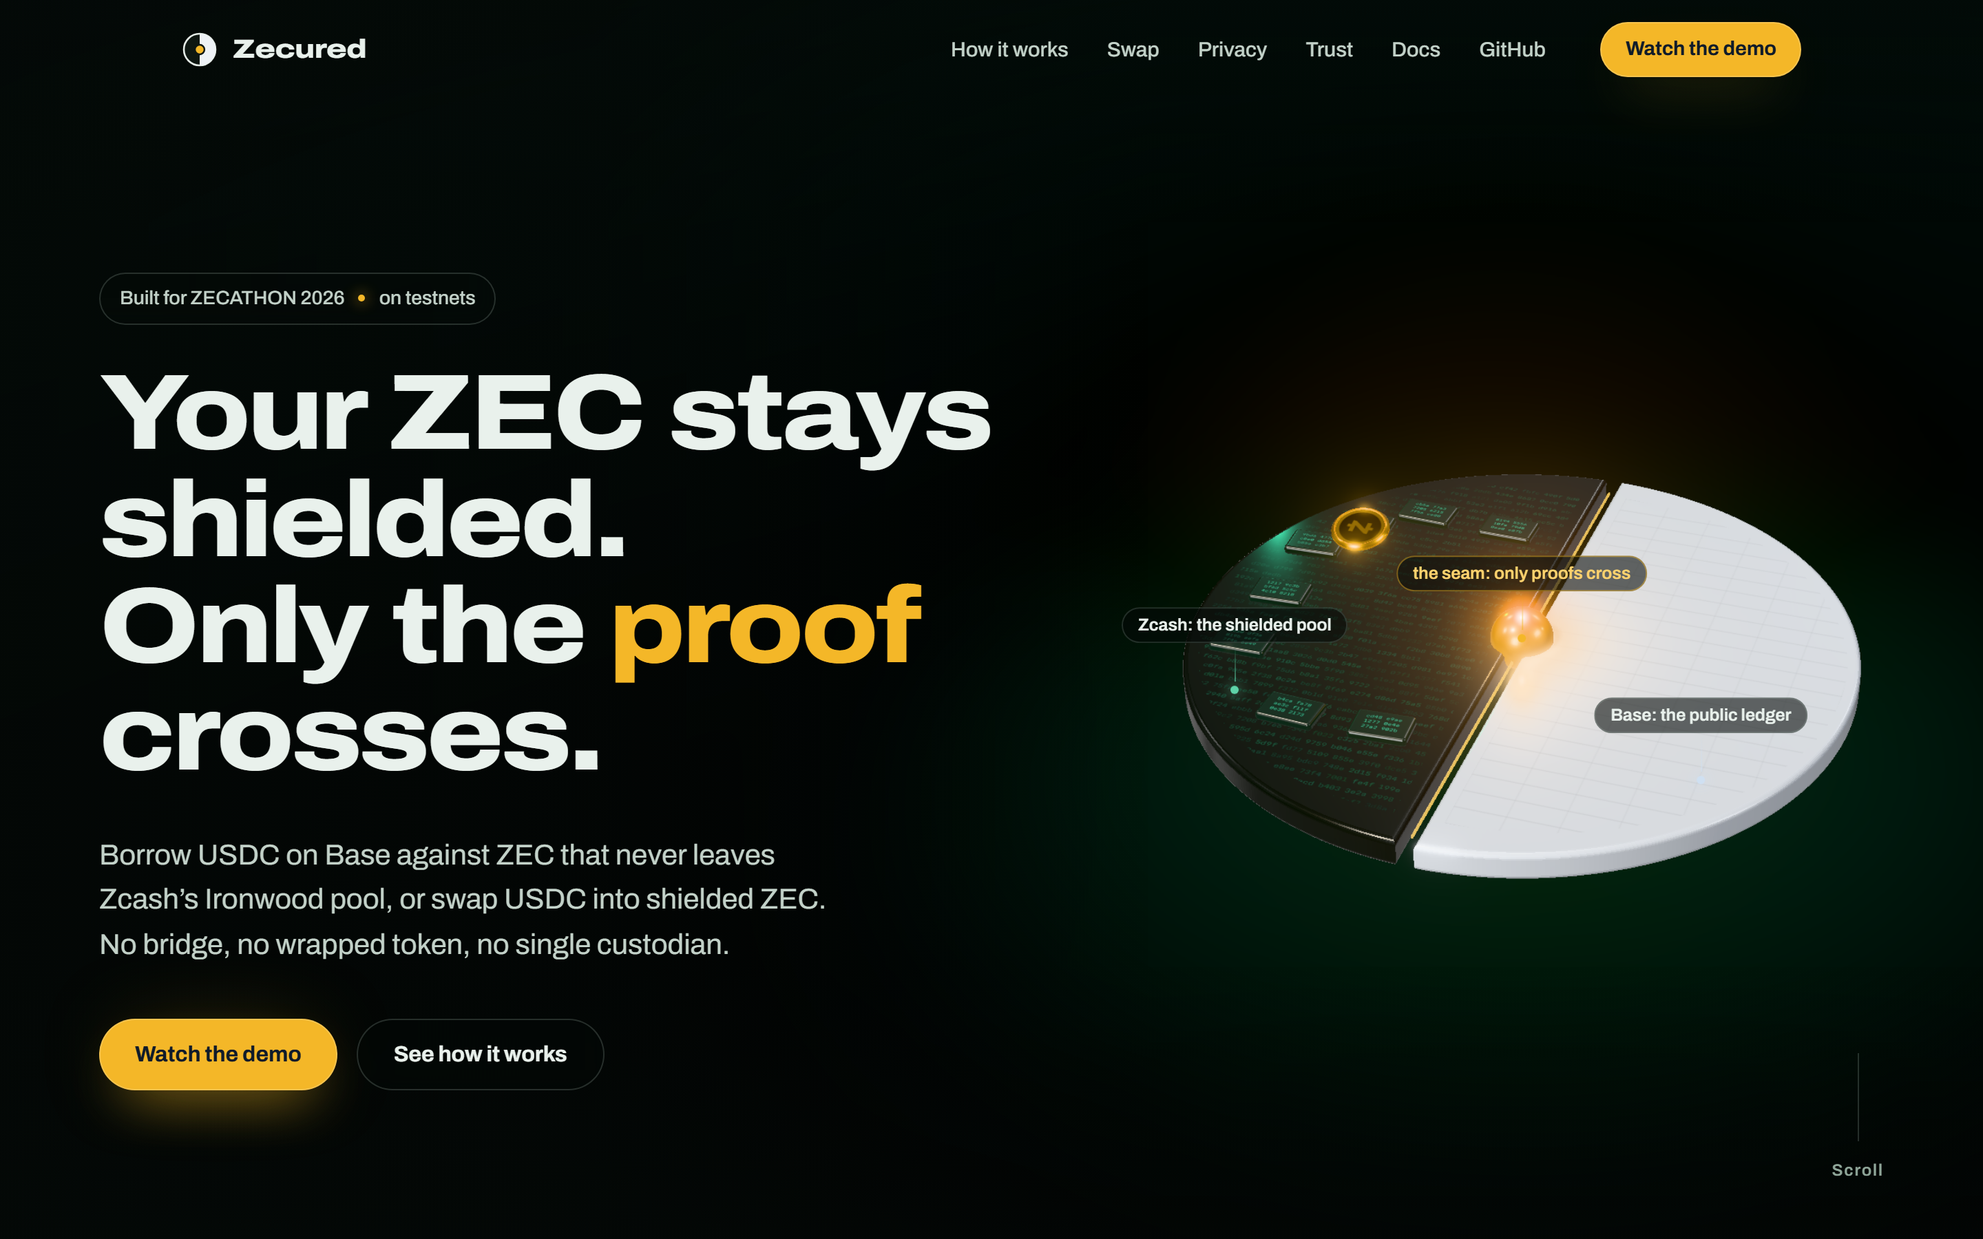
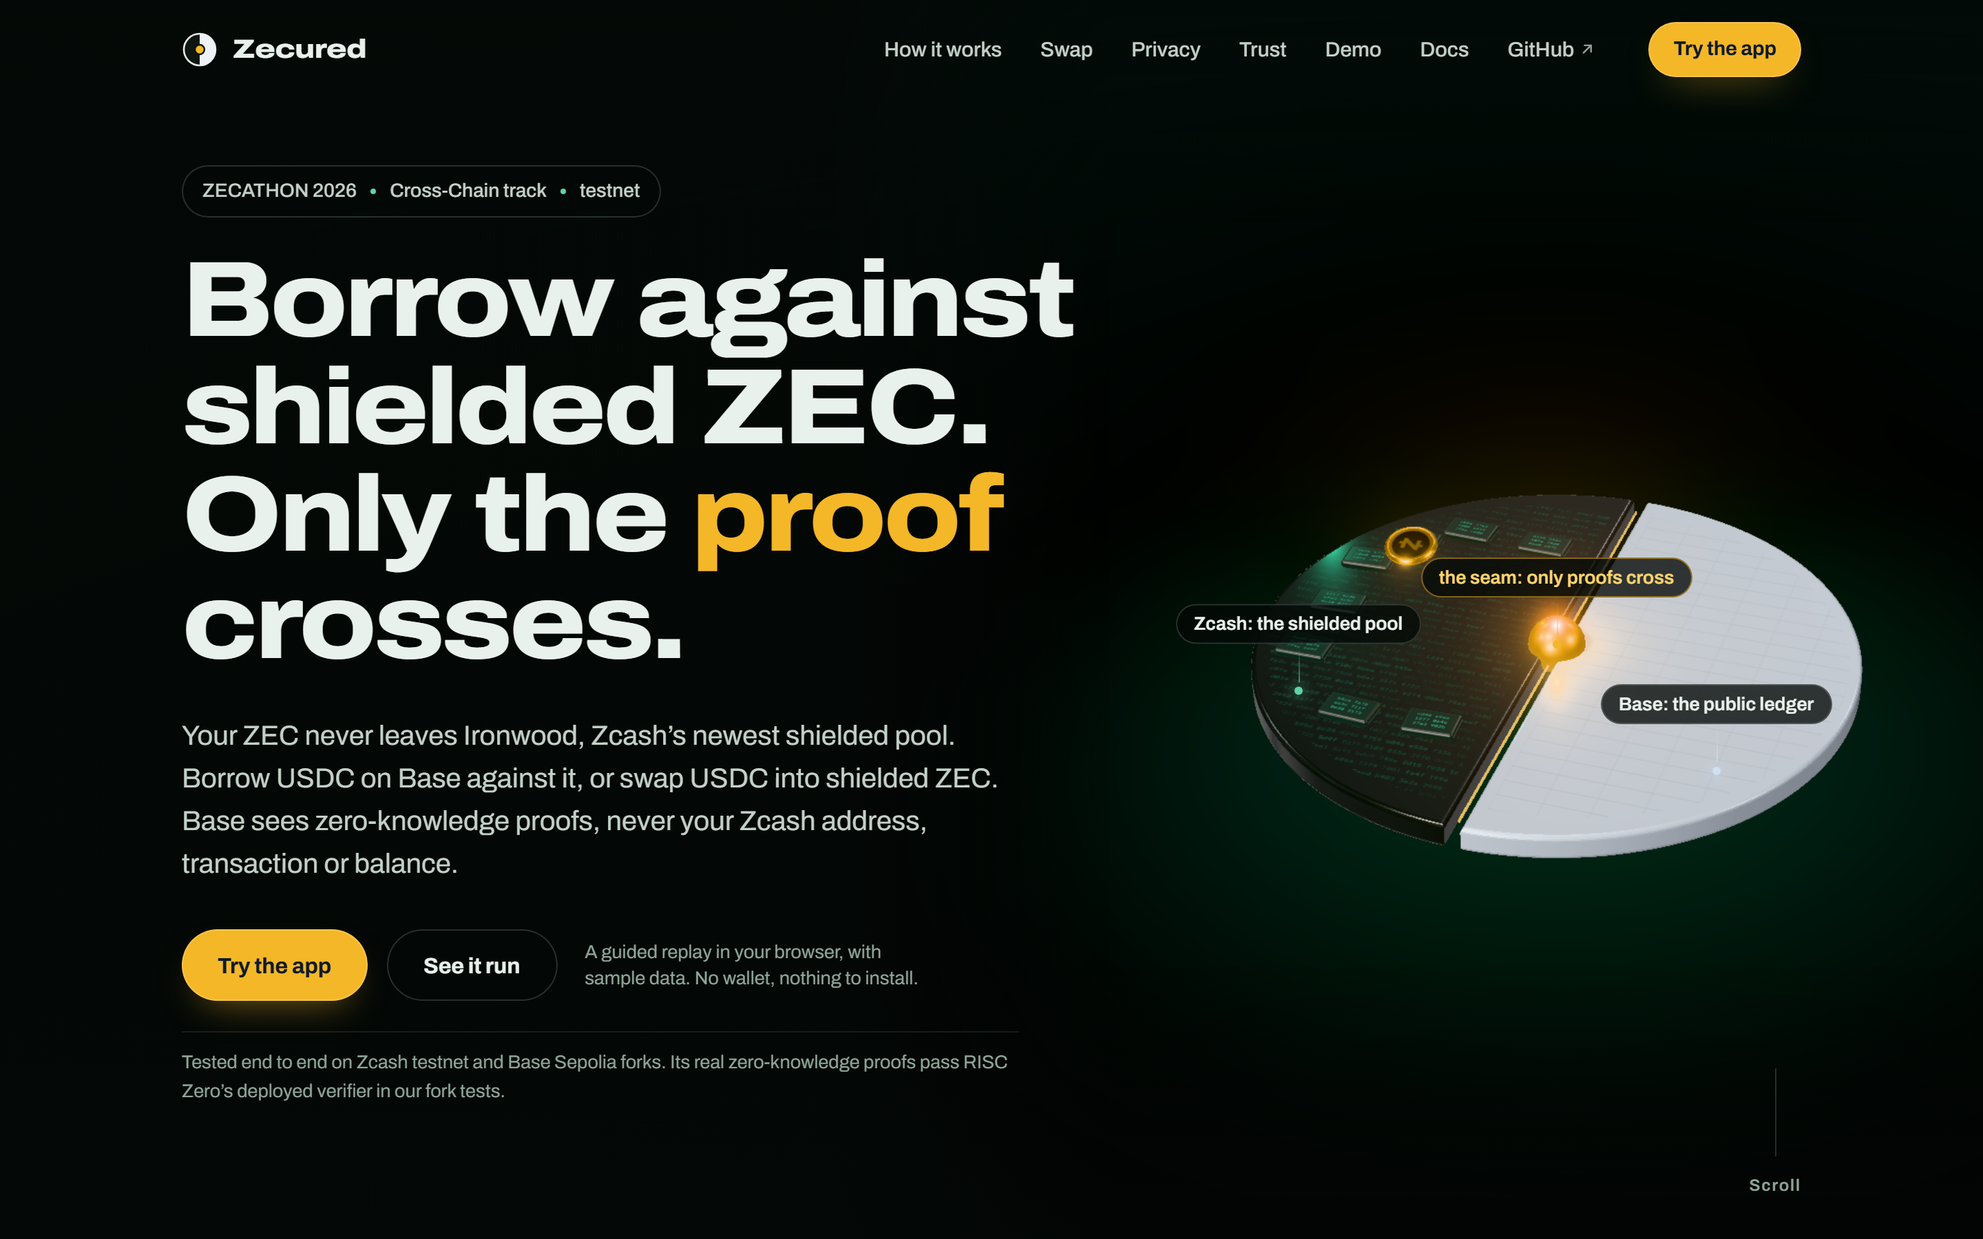
docs(site): SITE.md after the audit, and the README's images from the new site
SITE.md describes the new scene (the proof as light, the bonds in USDC, the sinking mark, the tall still, the lost
context), the design rules (gold for proofs and the primary button only, the grid, the ledger comparison, the fonts'
missing glyphs), a source for every number the site now shows (LC-54), the 404 page and the base path the workflow
writes into it, the video's final markup to swap in once it exists, and that a custom domain is set in the
repository's settings, not by a CNAME file, with the workflow run again right after (FT-5). The README's hero and
theft images are regenerated by `pnpm shots`.

diff --git a/docs/SITE.md b/docs/SITE.md
@@ -7,10 +7,13 @@
   ledger, and a gold core in the seam, the only place anything crosses. As the reader scrolls, the story plays out
   on the mark: a coin paid into a vault its five signers ring, a proof crossing to the ledger, a fresh account
   borrowing from the market, the close, the swap, what a bridge would leak, and the theft and its slashing. The
-  text stays short: a line and a sentence a chapter.
+  text stays short: a line and a sentence a chapter. The page ends on the evidence in numbers, the app, the doors
+  into the docs and a closing line with the three ways in (the app, the demo, the code).
 - **The docs page** (`docs/index.html`): the details. One loan step by step on both chains (with the borrower’s
   viewing key), what Base sees next to a typical bridge, the swap, who you have to trust and the theft timeline,
   the evidence, the way to mainnet, and how to run it all.
+- **The 404 page** (`404.html`): GitHub Pages serves it at any missing path, so its links and stylesheet are
+  absolute: `{{BASE}}` stands for the site’s base path, which the publishing workflow writes in (below).
 
 The first design of the site, a single long page, is kept on the branch `site-v1`; the second, whose scene was
 an abstract field of light, on `site-v2`.
@@ -39,41 +42,52 @@ module, `site/scene.js` (`pnpm build` in `site/dev`); a test checks that the com
 builds to.
 
 - `main.js` loads `scene.js` once the page is up, and only where WebGL 2 is available and the reader has not asked
-  for reduced motion. Otherwise, and until the scene draws its first frame, the page shows `img/still.jpg`, one
-  frame of the scene.
+  for reduced motion. Otherwise, and until the scene draws its first frame, the page shows a frame of the scene as
+  an image: `img/still.jpg`, or `img/still-tall.jpg` on a tall screen (the mark above, the text below). Without
+  the scene the chapters are plain sections over that image, and the Prove chapter shows `img/seam.svg`.
 - The scroll is the story’s clock. Each section of the page names its chapter (`data-scene`); story time is the
   chapter’s number plus how far through it the reader is, and every object’s state is a function of that time
   alone, so the story plays backwards as well as forwards. Each chapter’s events happen while its text is on
-  screen.
+  screen; the swap and the theft, which tell the most, have longer sections.
 - The camera follows a track of keyframes in story time, each an orbit around what is being told and the place on
   screen where it should stand. `main.js` measures where each section’s text ends (its right edge, or its top on a
   tall screen), and the scene stands the story in the space the text leaves. Each moment also names the box of
   what it tells (`camera.js`), and the camera centres that box in the free space and steps back until all of it
-  is on screen, clear of the header and of the text. On a tall screen the veil darkens the scene from where the
-  text begins. Once, as the page opens, the camera swings in toward the mark.
+  is on screen, clear of the header and of the text. The veil darkens the scene up to where the text’s lines end
+  on a wide screen (`--text-edge`), and from where the text begins on a tall one. Once, as the page opens, the
+  camera swings in a little toward the mark. In the demo section the mark sinks out of the app’s picture.
+- A proof is light, not metal: a pale, glowing tile with a π, and a comet’s tail behind it, so it never reads as
+  the gold ZEC coins. The signers’ bonds are USDC, blue like the chips they repay a victim with.
 - The small tags on the scene (`.tags [data-tag]`, in the page’s HTML) follow the things they name: the scene
   places them each frame, fades them with its story and never lays one over a chapter’s text. They are decorative
   (`aria-hidden`); the text says the same.
-- It keeps its frame rate by lowering the pixel ratio while frames run slow, then turning off the glow, then the
-  shadows, and it stops while the tab is hidden.
+- It draws into a multisampled target of its own (the canvas itself has no antialiasing), keeps its frame rate by
+  lowering the pixel ratio while frames run slow, then turning off the glow, then the shadows, stops while the tab
+  is hidden, and gives the page back its still image if the GPU loses the context.
 
 ## The design
 
-- **Ground:** near black with a hint of green (`#040907`), the pool’s teal (`#38a684`), the ledger’s ice
-  (`#cfe0f2`, `#eef2f6` for light panels).
-- **Gold** (`#f4b728`) marks proofs and the primary button.
+- **Ground:** near black with a hint of green (`#040907`), the pool’s teal (`#38a684`, `#5ed3a8` for small marks),
+  the ledger’s ice (`#cfe0f2`, `#eef2f6` for light panels).
+- **Gold** (`#f4b728`) marks proofs and the primary button, nothing else: chapter numbers, arrows and the scroll
+  cue are neutral, and a button’s glow is short.
 - **Red** (`#ff5a4e`, and `#9a1f15` on `#fbe1dc` for a leak in text) marks only what leaks or is compromised.
 - **Archivo** (variable: width 62 to 125 %, weight 100 to 900) sets the text, headlines wide and heavy. **Martian
-  Mono** is for chain data only: hashes, heights, amounts, commands.
+  Mono** is for chain data only: hashes, heights, amounts, commands. Neither draws ↗ (external links get a small
+  drawn arrow) and Martian Mono has no π (π is set in Archivo).
+- **Grid:** the hero’s and the chapters’ text starts where the header’s logo does, at every width; a short laptop
+  window (up to 860 px high) gets a tighter first screen so its buttons stay in view.
 - **Motion:** the scene and the reveals of the landing page answer the scroll. `prefers-reduced-motion` stops all
   of it: no scene, no transitions, the still image.
-- **Panels in the docs:** where a step happens on both chains, the shielded pool is a dark rounded panel with
-  encrypted values blurred, and Base a light, square, ruled one.
+- **Panels:** where a step happens on both chains, the shielded pool is a dark rounded panel with encrypted values
+  blurred, and Base a light, square, ruled one. The landing’s comparison of a bridge and Zecured is two such
+  ledger panels: both columns are what Base shows.
 - **Other projects' marks:** the scene names ZEC, USDC and Morpho with their owners' own marks, drawn unaltered
   from their brand kits: the Zcash brandmark from the Zcash brand folder ZecHub keeps
   (https://zechub.wiki/zcash-organizations/brand), the USDC token logo from Circle's press kit
   (https://www.circle.com/en/pressroom) and Morpho's symbol from https://brand.morpho.org. They are their owners'
-  trademarks, used only to name the asset or the protocol (`site/dev/scene/labels.js`).
+  trademarks, used only to name the asset or the protocol (`site/dev/scene/labels.js`); the Morpho market leaves
+  the scene with the close, so no other project’s mark decorates the page’s closing frames.
 
 ## Its content
 
@@ -83,41 +97,70 @@ Every number on the site comes from a recorded run, and each has its source:
 |---|---|
 | 804 contract tests, 6 skipped | TESTING § 1 |
 | 4 invariant campaigns, 35 invariants, 12,800 calls each, no reverts | TESTING § 1, INVARIANTS |
-| Halmos 22 of 22 | TESTING § 1 |
-| Real Groth16 seals 12 of 12 (`RealSealsV2.t.sol`) | TESTING § 2 |
+| Halmos 22 of 22, for every input of a single call | TESTING § 1 |
+| 4 of 4 kinds of real proof (deposit, F1, inclusion, payment) pass RISC Zero’s router, in 12 tests (`RealSealsV2.t.sol`) | TESTING § 2, “Statement v2's seals on-chain” |
 | 533 on a Base mainnet fork (the v3 suites) | TESTING § 1, MAINNET § 1 |
 | Rust 600 (CI on Linux), app 438 | TESTING § 1 |
-| GPU: a deposit in 28.1 s, an F1 in 36.9 s | TESTING § 2, 2026-10-21 |
-| Leak scan: 302 identifiers, 77 events, 55 calldata, 177 storage words, 0 matches | TESTING § 2, v4.1 |
-| The browser run: 2 min 50 s, 4 min 25 s, 7 min 56 s; 729,131 gas | TESTING § 2 |
+| GPU: a deposit in 28.1 s, an F1 in 36.9 s (the STARK); about a minute more for the Groth16 wrap (61.5 s on a 15-vCPU x86 machine) | TESTING § 2, 2026-10-21 and 2026-10-14 |
+| Leak scan: 302 identifiers (txids, note commitments, nullifiers, raw receivers, viewing and tag keys), 77 events, 55 calldata, 177 storage words, 0 matches | TESTING § 2 (P-6) and its leak scanner |
+| The browser run: 2 min 50 s, 4 min 25 s, 7 min 56 s (MOCK verifier on that fork); 729,131 gas | TESTING § 2 |
+| The opening fee: 0.5 %, waived below 20,000 zatoshi | ECONOMICS, “Fees” |
 | Close from collateral: block 4,488,453; 337,500 and 252,500 zat | TESTING § 2, the app’s run |
 | The swap: order `0x21660b10` (0.01 ZEC for 11.115555 USDC) and its times | TESTING § 2, v4 |
-| The swap's liquidity: market makers' own inventory, quotes signed for one taker; at most 200 USDC an order on the judge deployment, 250 USDC (5 ZEC) in the mainnet beta | SWAP, "A Buy, step by step", "Parameters" and "The market maker" |
-| The theft demonstration: `43ea5e91`, block 4,523,730; 64 s; 00:04:40, 00:06:47, 00:16:53; 3 → 12.65 USDC | TESTING § 2 |
+| The swap's liquidity: market makers' own inventory, quotes signed for one taker; orders capped at 200 USDC on testnet, 250 USDC in the mainnet beta | SWAP, “A Buy, step by step”, “Parameters” and “The market maker” |
+| The theft demonstration: `43ea5e91`, block 4,523,730; 64 s; 00:04:40, 00:06:47, 00:16:53; 3 → 12.65 USDC at $1,265 | TESTING § 2 |
+| All five bonds slashed because FROST hides which three signed | TIER3, F1 |
 | Vault `0x59d5e63e`, tag `0xe43d283f`, payoutRef `0xcdf694fd`, blocks 4,490,621 and 4,490,655 | TESTING § 2, 2026-10-12 |
+| One signer offline: opening a vault refused within a second | TESTING § 2, “One signer down at opening” |
+| Two compromised signers sign a sweep, the other three refuse | TESTING § 2, “Threshold demo” |
+| A claim unpaid 24 hours (72 on mainnet) after a signer acknowledged it is paid from the bonds | ECONOMICS, MAINNET § 2 |
+| The market’s liquidation LTV, 62.5 % | MAINNET § 1, ECONOMICS |
+| A borrow of 4 USDC | TESTING § 2, “Browser, gasless” |
+| 0.125 ZEC as a standard size | THREAT_MODEL (L3) |
+| One Equihash ASIC out-mines Zcash testnet about 40 times over | TIER3, TIER2, JURY_FAQ |
 | The mainnet parameters and NU7’s date | MAINNET § 1, 2 and 5 |
-| The USDC comes from lenders on Morpho Blue, a new market backed by Zcash collateral | SUBMISSION, “What it does” |
+| Lenders on Morpho Blue supply the USDC and earn the interest, in a new market backed by Zcash collateral | SUBMISSION, “What it does” |
 | A liquidation pays the liquidator in shielded ZEC with no outgoing viewing key; pre-liquidation is opt-in | README (Borrow), ARCHITECTURE (P3), ECONOMICS (“Pre-liquidation (opt-in)”), TESTING § 2 (`dc7c669a`) |
 | The relay and the proofs form a Zcash light client other contracts can use | SUBMISSION, SWAP (its first paragraph) |
 | The draft ZIP, Shielded Collateral Vaults | `docs/zip-draft-shielded-collateral-vaults.md` |
 | A judge’s questions | JURY_FAQ |
 | Known limitations and their designs | MAINNET § 7 |
-| The app replays the live run in the browser, each step linked to its real transaction | `app/README.md` (“The judges' replay”) |
+| Built from 10 October 2026 | the repository’s first commit |
+| The app’s replay: a guided replay in the browser, with sample data (DEMO) | `app/README.md` (“The judges' replay”) |
 
 When a run changes a number, change it on the site too. The docs’ “Real” and “Mock, or run by us” lists say what
 the README’s “What is real and what is a mock” says; when one changes, so does the other.
 
-## The placeholder
+## The video
 
-- **`[DEMO VIDEO]`** (the landing page’s demo section) becomes the video, self-hosted in `site/media/`: `demo.mp4`
-  (H.264, 1080p, CRF about 26, at most 60 MB; GitHub Pages allows 100 MB a file) with `preload="none"` and a
-  poster, `demo-poster.jpg`, and English captions, `<track kind="captions" srclang="en" src="media/demo.en.vtt"
-  default>`. Next to it, a plain link to the same video on YouTube (a link, not an embed). The policy’s
-  `media-src 'self'` and `img-src 'self'` already allow them.
+Until the demo video exists, the landing page’s demo section shows a picture of the app (`img/app.webp`, 16:10,
+at most 150 KB) that opens it, with “Replay it in the app”. Once the video is recorded it goes in `site/media/`:
+`demo.mp4` (H.264, 1080p, CRF about 26, at most 60 MB; GitHub Pages allows 100 MB a file), a poster frame of the
+app, `demo-poster.jpg`, and English captions, `demo.en.vtt`. Then replace the contents of
+`<section class="demo" id="demo">` with this (keep the YouTube link a plain link, never an embed: the policy
+allows no frames), and in the hero change the second button to “Watch the 2-minute demo”:
 
-The docs’ evidence lists the recorded runs of TESTING § 2. A run of the judge deployment would be added there once
-TESTING records it, with Basescan links for the Base Sepolia transactions and short txids and blocks for the Zcash
-side.
+```html
+  <div class="demo-copy">
+    <h2 id="demo-h" class="title reveal">See it run.</h2>
+    <p class="body reveal">Two minutes: a loan opened in the browser, its deposit proven on Base, USDC borrowed from a brand-new account, a close from collateral, and a swap into shielded ZEC.</p>
+    <p class="note reveal">Or click through it yourself: the app runs as a guided replay in your browser, with sample data (DEMO). <a href="https://www.youtube.com/watch?v=VIDEO_ID">Also on YouTube</a></p>
+    <p class="ctas reveal"><a class="btn btn-gold" href="app/">Replay it in the app</a></p>
+  </div>
+  <figure class="frame reveal">
+    <video controls preload="none" playsinline width="1920" height="1080" poster="media/demo-poster.jpg">
+      <source src="media/demo.mp4" type="video/mp4">
+      <track kind="captions" srclang="en" label="English" src="media/demo.en.vtt" default>
+    </video>
+  </figure>
+```
+
+The policy’s `media-src 'self'` and `img-src 'self'` already allow them, and `.frame video` takes the same frame
+as the picture (`landing.css`). If the narration does not say everything the video shows, add a transcript next to
+it. After a public run on Base Sepolia, the sentences that change are listed in the private notes of the live run.
+
+The docs’ evidence lists the recorded runs of TESTING § 2. A run on Base Sepolia would be added there once TESTING
+records it, with Basescan links for the Base Sepolia transactions and short txids and blocks for the Zcash side.
 
 ## Tests
 
@@ -134,14 +177,16 @@ on, the last step and the other comparison shown; every word readable without th
 its tags follow it; that without WebGL the page keeps its still image, loads no scene and logs no error; no motion
 and no scene under `prefers-reduced-motion`; the docs’ steps, viewing key and comparison by keyboard, and that the
 viewing key never clears the market maker’s output; a link to a step (`#loan-step-3`) opening it and scrolling to
-it; no horizontal scroll at 390, 768, 1024, 1440 and 1920 px; a target for every link inside the site; and that
-`site/scene.js` is what its source builds to.
+it; no horizontal scroll at 390, 768, 1024, 1440 and 1920 px; a target for every link inside the site; that a
+missing page gets the 404 page, styled, with its links; and that `site/scene.js` is what its source builds to. On
+a machine short of memory, run them one at a time: `pnpm test -- --workers=1`.
 
-`pnpm shots` writes the site’s images: `site/img/still.jpg`, the social card `site/og.png` (1200 by 630), the
-README’s `docs/assets/hero.png` and `docs/assets/theft.png`, and the frames of `docs/assets/loan.gif`, which
-`scripts/site-gif.sh` assembles (needs ffmpeg). The scene is frozen on one frame of the hero for them. It also writes
-both pages in full at those five widths for review (`site/dev/shots/`, not committed). `docs/assets/seam.svg` (also
-`site/img/seam.svg`) is drawn by hand.
+`pnpm shots` writes the site’s images: `site/img/still.jpg` and `site/img/still-tall.jpg` (read from the canvas
+itself), the social card `site/og.jpg` (1200 by 630), the README’s `docs/assets/hero.png` and
+`docs/assets/theft.png`, and the frames of `docs/assets/loan.gif`, which `scripts/site-gif.sh` assembles (needs
+ffmpeg). The scene is frozen on one frame of the hero for them. It also writes both pages in full at those five
+widths for review (`site/dev/shots/`, not committed). `docs/assets/seam.svg` (also `site/img/seam.svg`) is drawn by
+hand.
 
 ## Fonts
 
@@ -153,11 +198,14 @@ hinting. The licence is `site/fonts/OFL.txt`.
 ## Publishing
 
 `.github/workflows/pages.yml` publishes everything in `site/` except its tooling, `site/dev`, to GitHub Pages, at
-https://himess.github.io/zecured/; the pages’ canonical and social-card URLs name that address. Beside it, at `app/`,
-the same workflow builds and publishes the judges' replay of the app (DEMO, `app/README.md`): its static export, which
-plays a recording of the live run in the browser. The site's "Open the app" buttons link there. The tests’ server
-(`site/dev/serve.mjs`) serves the same files, so a file the site needs and the tests find is a file Pages
-publishes. The workflow runs only by hand (`workflow_dispatch`). Pages on a private repository needs a paid plan, so
-the first publication waits for the repository to become public. Turning Pages on and running the workflow are the
-project owner’s decision at the time. A custom domain (a `CNAME`) is optional, and so is serving the site as an
-onion service too (`infra/onion`).
+https://himess.github.io/zecured/; the pages’ canonical and social-card URLs name that address, and the workflow
+rewrites it, and the 404 page’s `{{BASE}}`, from what `actions/configure-pages` reports, so the same files serve a
+custom domain. Beside them, at `app/`, the same workflow builds and publishes the judges' replay of the app (DEMO,
+`app/README.md`): its static export, which plays a guided replay with sample data in the browser. The site's “Try
+the app” buttons link there. The tests’ server (`site/dev/serve.mjs`) serves the same files the same way, so a
+file the site needs and the tests find is a file Pages publishes. The workflow runs only by hand
+(`workflow_dispatch`). Pages on a private repository needs a paid plan, so the first publication waits for the
+repository to become public. Turning Pages on and running the workflow are the project owner’s decision at the
+time, and so is a custom domain, which is set in the repository’s Pages settings: with deployments from Actions a
+`CNAME` file is ignored. Setting a domain changes the site’s base path at once, so run the workflow again right
+after. Serving the site as an onion service too is optional (`infra/onion`).
